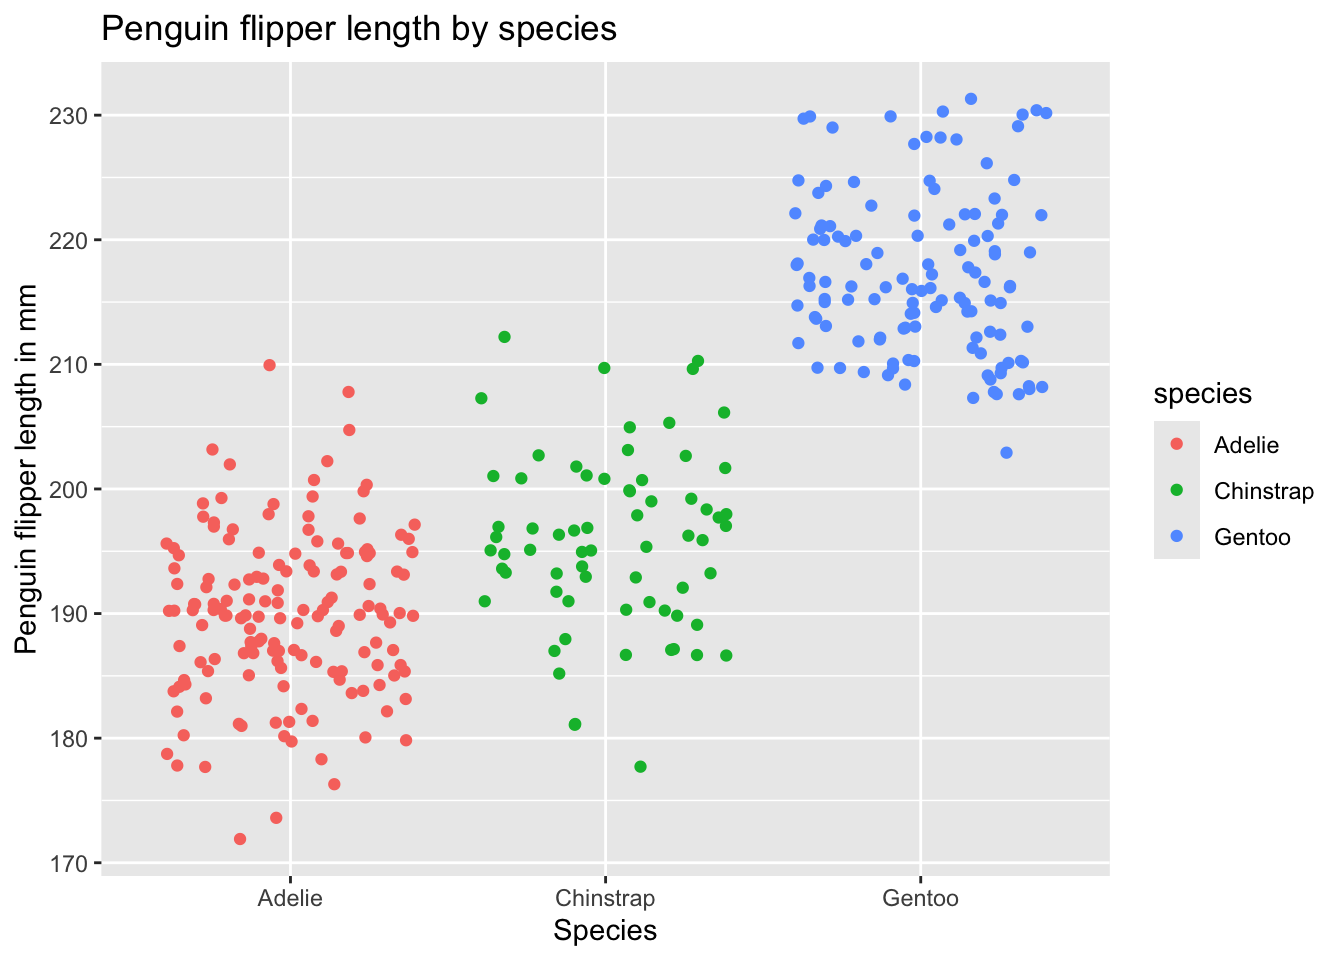
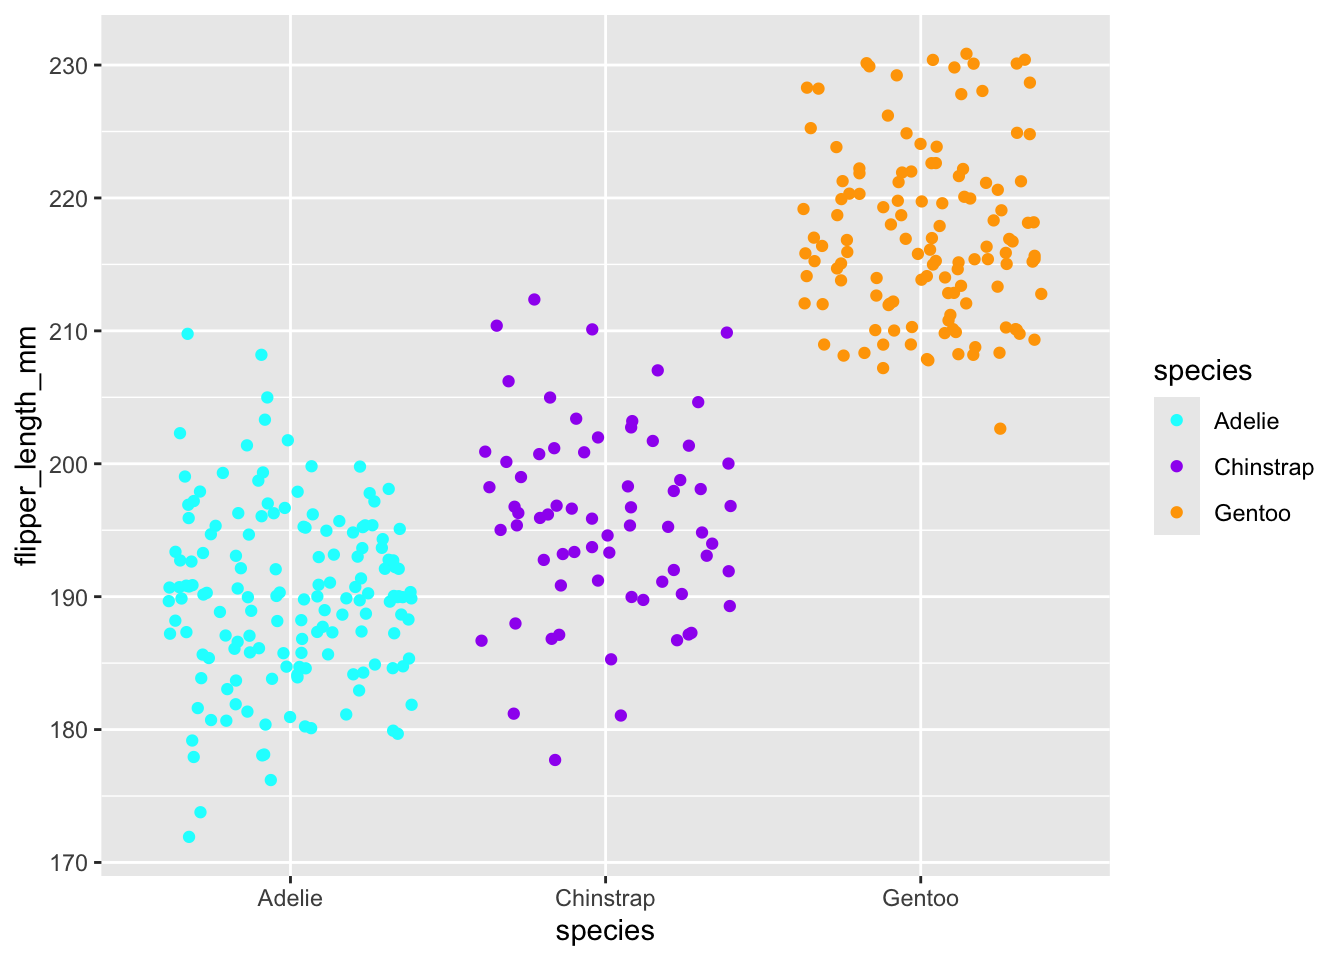
Changed colors on the penguin jitter graph

diff --git a/eds212_day2_activities.html b/eds212_day2_activities.html
@@ -178,15 +178,29 @@ $ year              &lt;int&gt; 2007, 2007, 2007, 2007, 2007, 2007, 2007, 2007, 
 <span id="cb11-2"><a href="#cb11-2" aria-hidden="true" tabindex="-1"></a><span class="fu">ggplot</span>(penguins, <span class="fu">aes</span>(<span class="at">x =</span> species, </span>
 <span id="cb11-3"><a href="#cb11-3" aria-hidden="true" tabindex="-1"></a>                     <span class="at">y =</span> flipper_length_mm)) <span class="sc">+</span></span>
 <span id="cb11-4"><a href="#cb11-4" aria-hidden="true" tabindex="-1"></a>  <span class="fu">geom_jitter</span>(<span class="fu">aes</span>(<span class="at">color=</span>species)) <span class="sc">+</span></span>
-<span id="cb11-5"><a href="#cb11-5" aria-hidden="true" tabindex="-1"></a>  <span class="fu">labs</span>(<span class="at">title =</span> <span class="st">"Penguin flipper length by species"</span>, </span>
-<span id="cb11-6"><a href="#cb11-6" aria-hidden="true" tabindex="-1"></a>       <span class="at">x =</span> <span class="st">"Species"</span>, </span>
-<span id="cb11-7"><a href="#cb11-7" aria-hidden="true" tabindex="-1"></a>       <span class="at">y =</span> <span class="st">"Penguin flipper length in mm"</span>)</span></code><button title="Copy to Clipboard" class="code-copy-button"><i class="bi"></i></button></pre></div>
+<span id="cb11-5"><a href="#cb11-5" aria-hidden="true" tabindex="-1"></a>  <span class="fu">scale_color_manual</span>(<span class="at">values =</span> <span class="fu">c</span>(<span class="st">"cyan"</span>, <span class="st">"purple"</span>, <span class="st">"orange"</span>))</span></code><button title="Copy to Clipboard" class="code-copy-button"><i class="bi"></i></button></pre></div>
 <div class="cell-output-display">
 <div>
 <figure class="figure">
 <p><img src="eds212_day2_activities_files/figure-html/unnamed-chunk-5-1.png" class="img-fluid figure-img" width="672"></p>
 </figure>
 </div>
+</div>
+<div class="sourceCode cell-code" id="cb12"><pre class="sourceCode r code-with-copy"><code class="sourceCode r"><span id="cb12-1"><a href="#cb12-1" aria-hidden="true" tabindex="-1"></a>  <span class="fu">labs</span>(<span class="at">title =</span> <span class="st">"Penguin flipper length by species"</span>, </span>
+<span id="cb12-2"><a href="#cb12-2" aria-hidden="true" tabindex="-1"></a>       <span class="at">x =</span> <span class="st">"Species"</span>, </span>
+<span id="cb12-3"><a href="#cb12-3" aria-hidden="true" tabindex="-1"></a>       <span class="at">y =</span> <span class="st">"Penguin flipper length in mm"</span>)</span></code><button title="Copy to Clipboard" class="code-copy-button"><i class="bi"></i></button></pre></div>
+<div class="cell-output cell-output-stdout">
+<pre><code>$x
+[1] "Species"
+
+$y
+[1] "Penguin flipper length in mm"
+
+$title
+[1] "Penguin flipper length by species"
+
+attr(,"class")
+[1] "labels"</code></pre>
 </div>
 </div>
 </section>
